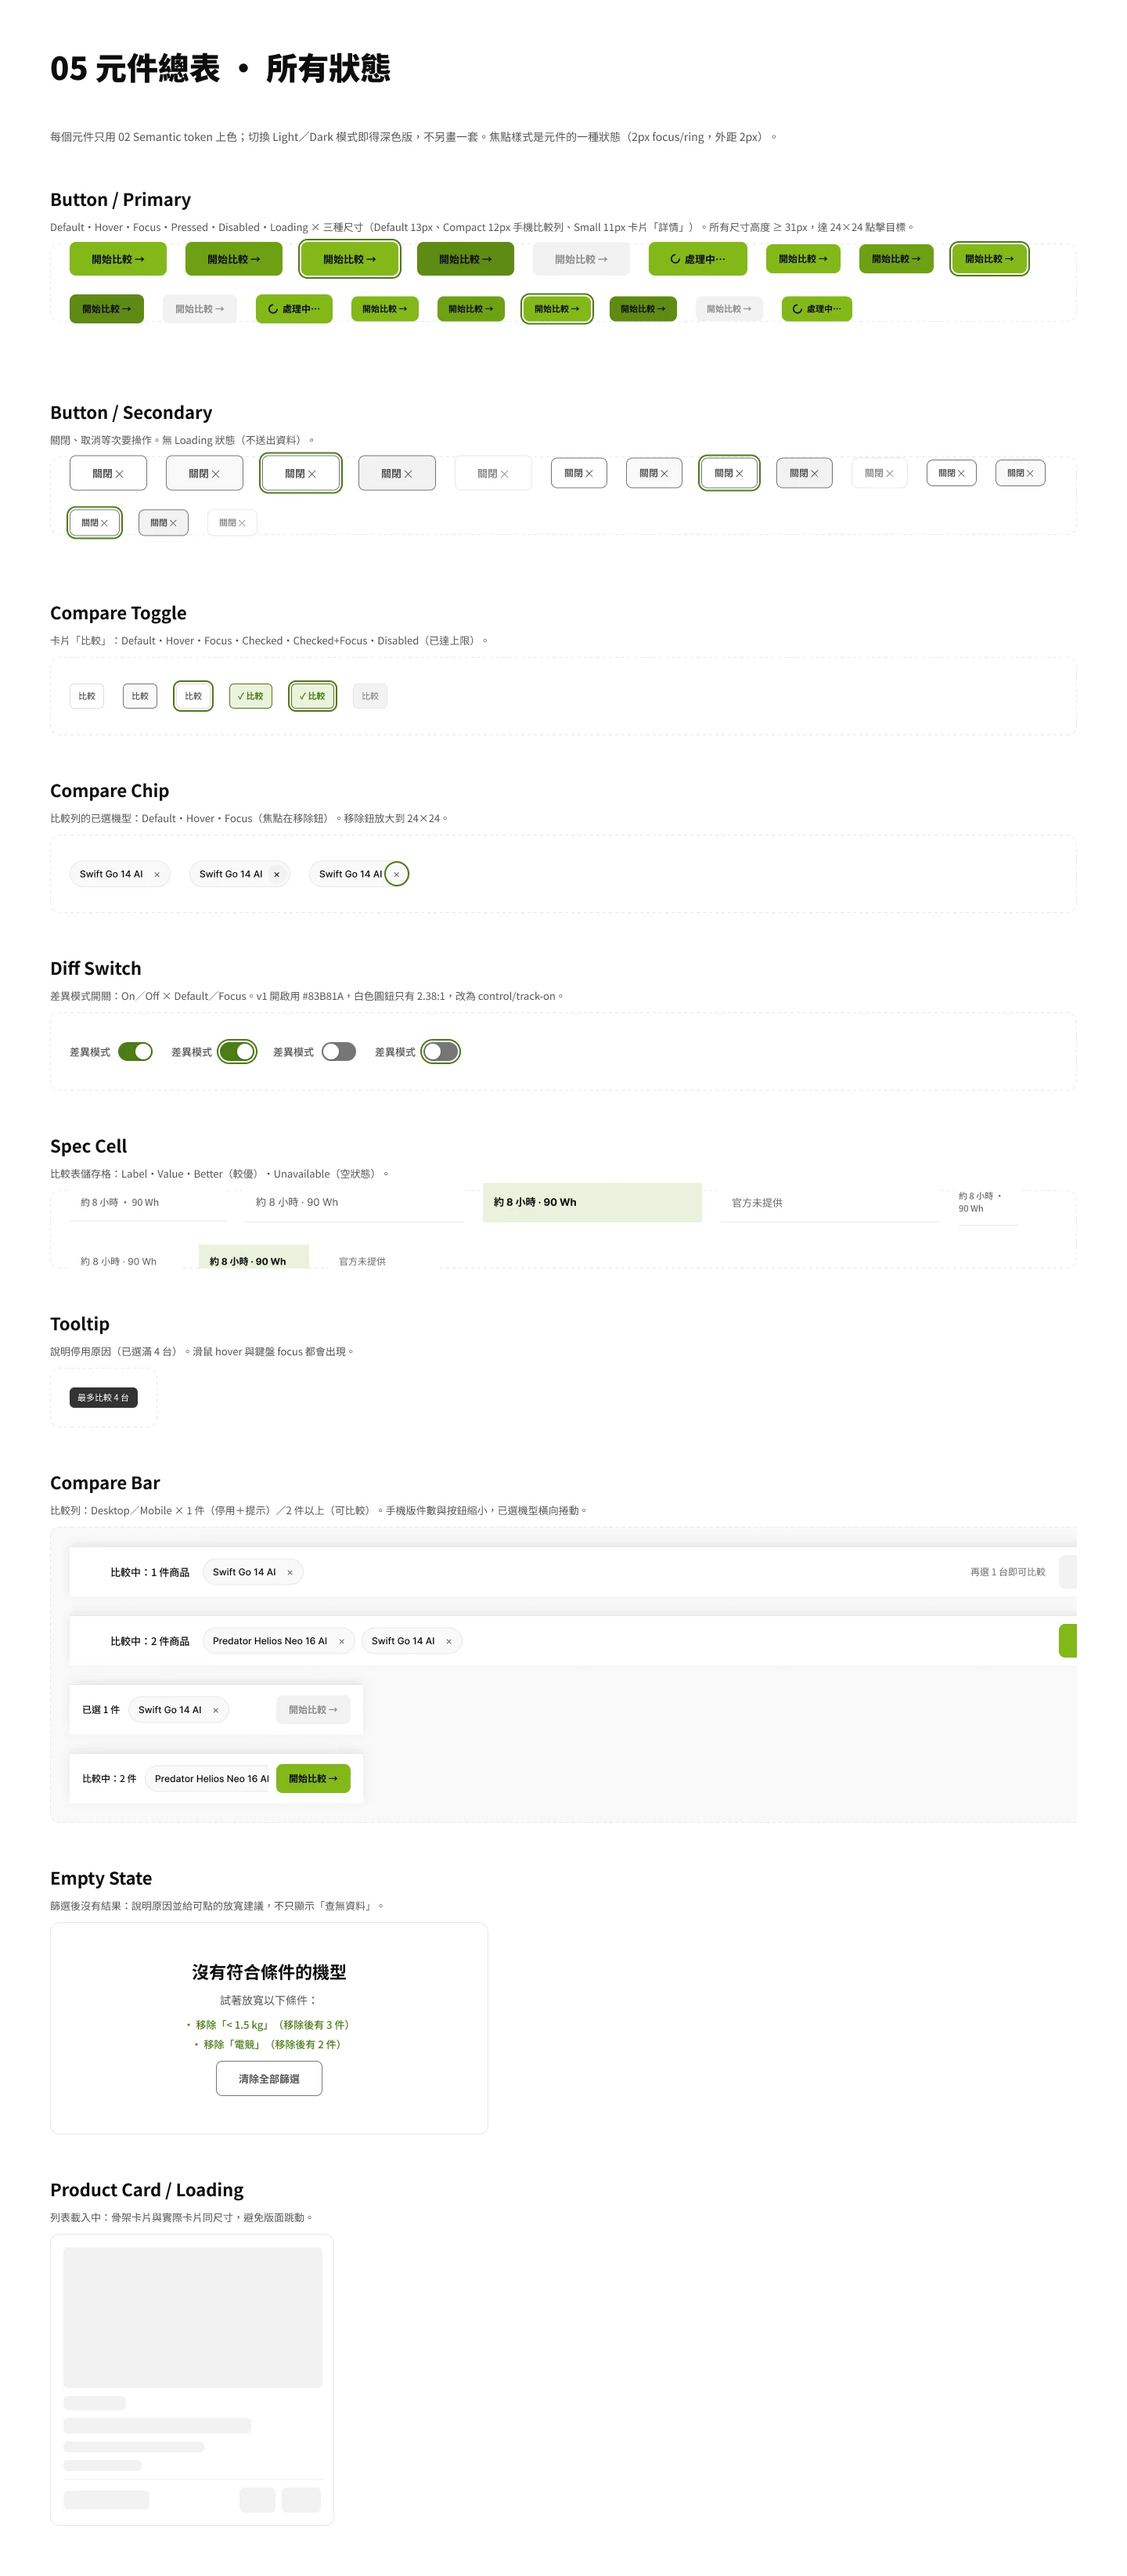
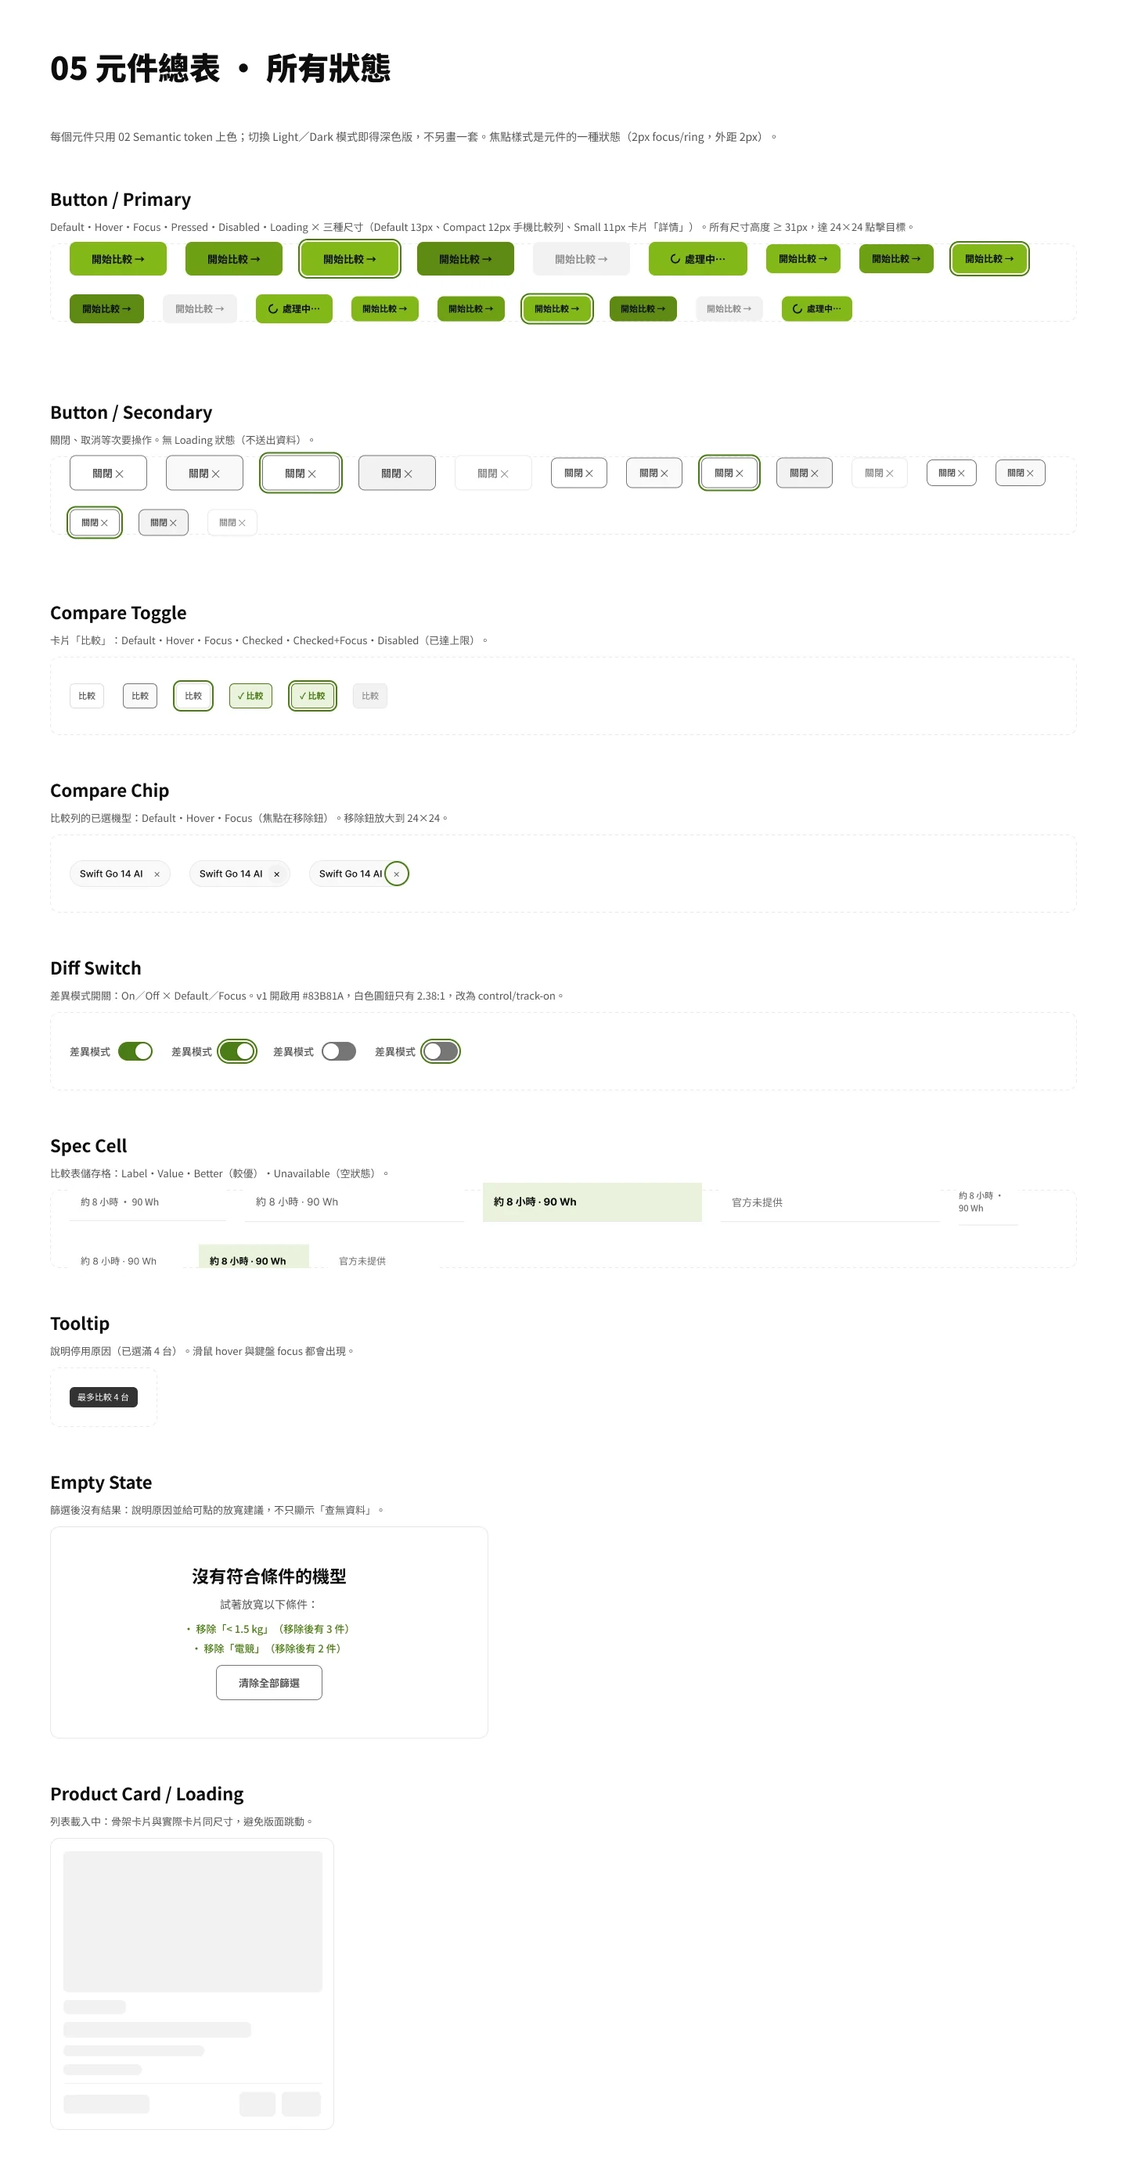
Acer 比較列改用 HTML Demo 的實際畫面
元件總表裡的 Compare Bar 被 Figma frame 裁掉：節點 409:103 是 1490px，
外層 frame 405:55 只有 1440px 且開了 clip content。實測單獨匯出內層的
409:54（本身 1440px）也只回傳 1303px——Figma 匯出一律套用上層裁切，
被切掉的像素不存在於任何匯出檔，縮放無法還原。

- 從 leortsai.github.io/acer-redesign-demo 的筆電列表實際操作，
  截下已選 1 件（按鈕停用＋「再選 1 台即可比較」）與 2 件（按鈕可按）
  兩種狀態，合成一張放在元件總表後面。
- 元件總表裁掉被切壞的 Compare Bar 區塊（frame 座標 y 1879-2384），
  高度 3290 → 2785。Tooltip 與 Empty State 之間的間距維持原本的 56px。
- 手機版比較列不重複放：05 後面的「手機版比較」已經有。

diff --git a/case-acer.html b/case-acer.html
@@ -7,7 +7,7 @@
   <meta name="description" content="Acer 官網概念重設計 — 資訊架構收斂、token-based 設計系統與比較功能互動原型。Fuyu Tsai UI/UX Case Study。">
   <link rel="preconnect" href="https://fonts.googleapis.com">
   <link href="https://fonts.googleapis.com/css2?family=Noto+Sans+TC:wght@400;500&display=swap" rel="stylesheet">
-  <link rel="stylesheet" href="css/style.css?v=20261113e">
+  <link rel="stylesheet" href="css/style.css?v=20261113f">
 </head>
 <body>
 
@@ -246,8 +246,11 @@
       <img loading="lazy" decoding="async" width="2320" height="1978" src="assets/images/Acer Redesign/figma/acer-states-light-dark.webp" alt="元件狀態總表：同一組元件在淺色與深色模式下的預設、hover、focus、按下、停用與載入狀態" class="case-img-full">
       <p class="case-img-caption">狀態總表 — 同一組元件，只切換變數模式</p>
 
-      <img loading="lazy" decoding="async" width="1440" height="3290" src="assets/images/Acer Redesign/figma/acer-components.webp" alt="元件總表：按鈕、比較勾選、比較列、差異模式開關、比較表儲存格與骨架卡片" class="case-img-full">
+      <img loading="lazy" decoding="async" width="1440" height="2785" src="assets/images/Acer Redesign/figma/acer-components.webp" alt="元件總表：按鈕、比較勾選、差異模式開關、比較表儲存格、Tooltip、無結果狀態與骨架卡片" class="case-img-full">
       <p class="case-img-caption">元件總表</p>
+
+      <img loading="lazy" decoding="async" width="2400" height="338" src="assets/images/Acer Redesign/figma/acer-compare-bar-states-desktop.webp" alt="桌機版比較列的兩種狀態：已選 1 件時按鈕停用並提示再選 1 台，已選 2 件時按鈕可按" class="case-img-full">
+      <p class="case-img-caption">比較列的狀態，截自可操作的 HTML Demo：已選 1 件時按鈕停用並提示「再選 1 台即可比較」，2 件以上才能開始比較</p>
 
       <img loading="lazy" decoding="async" width="1358" height="1115" src="assets/images/Acer Redesign/figma/acer-token-contrast-matrix.webp" alt="Semantic Token 對比驗證矩陣：20 組前景與背景配對在淺色與深色模式下的對比值" class="case-img-full">
       <p class="case-img-caption">Semantic Token 對比驗證矩陣 — 20 組配對、兩種模式共 40 項檢查</p>
@@ -394,6 +397,6 @@
 
 <script src="https://cdn.jsdelivr.net/npm/lenis@1.3.26/dist/lenis.min.js"></script>
 <script src="js/main.js"></script>
-<script src="js/lightbox.js?v=20261113e"></script>
+<script src="js/lightbox.js?v=20261113f"></script>
 </body>
 </html>

diff --git a/case-michelin.html b/case-michelin.html
@@ -7,7 +7,7 @@
   <meta name="description" content="Michelin Guide 概念重設計 — 餐廳搜尋、列表、詳細頁與三步驟訂位流程。Fuyu Tsai UI/UX Case Study。">
   <link rel="preconnect" href="https://fonts.googleapis.com">
   <link href="https://fonts.googleapis.com/css2?family=Noto+Sans+TC:wght@400;500&display=swap" rel="stylesheet">
-  <link rel="stylesheet" href="css/style.css?v=20261113e">
+  <link rel="stylesheet" href="css/style.css?v=20261113f">
 </head>
 <body>
 
@@ -308,6 +308,6 @@
 
 <script src="https://cdn.jsdelivr.net/npm/lenis@1.3.26/dist/lenis.min.js"></script>
 <script src="js/main.js"></script>
-<script src="js/lightbox.js?v=20261113e"></script>
+<script src="js/lightbox.js?v=20261113f"></script>
 </body>
 </html>

diff --git a/case-iii-awards.html b/case-iii-awards.html
@@ -7,7 +7,7 @@
   <meta name="description" content="III Awards Agency — 為國際獎項顧問服務建立獨立品牌與四頁響應式網站。Fuyu Tsai UI/UX Case Study。">
   <link rel="preconnect" href="https://fonts.googleapis.com">
   <link href="https://fonts.googleapis.com/css2?family=Noto+Sans+TC:wght@400;500&display=swap" rel="stylesheet">
-  <link rel="stylesheet" href="css/style.css?v=20261113e">
+  <link rel="stylesheet" href="css/style.css?v=20261113f">
 </head>
 <body>
 
@@ -317,6 +317,6 @@
 
 <script src="https://cdn.jsdelivr.net/npm/lenis@1.3.26/dist/lenis.min.js"></script>
 <script src="js/main.js"></script>
-<script src="js/lightbox.js?v=20261113e"></script>
+<script src="js/lightbox.js?v=20261113f"></script>
 </body>
 </html>

diff --git a/case-iii-design.html b/case-iii-design.html
@@ -7,7 +7,7 @@
   <meta name="description" content="III Design Studio — 品牌識別、視覺系統到官網的完整設計路徑。Fuyu Tsai UI/UX Case Study。">
   <link rel="preconnect" href="https://fonts.googleapis.com">
   <link href="https://fonts.googleapis.com/css2?family=Noto+Sans+TC:wght@400;500&display=swap" rel="stylesheet">
-  <link rel="stylesheet" href="css/style.css?v=20261113e">
+  <link rel="stylesheet" href="css/style.css?v=20261113f">
 </head>
 <body>
 
@@ -139,6 +139,6 @@
 
 <script src="https://cdn.jsdelivr.net/npm/lenis@1.3.26/dist/lenis.min.js"></script>
 <script src="js/main.js"></script>
-<script src="js/lightbox.js?v=20261113e"></script>
+<script src="js/lightbox.js?v=20261113f"></script>
 </body>
 </html>

diff --git a/index.html b/index.html
@@ -7,7 +7,7 @@
   <meta name="description" content="蔡馥伃 Fuyu Tsai — UI/UX Designer。六年品牌與視覺設計背景，專注網站介面、設計系統與響應式設計。">
   <link rel="preconnect" href="https://fonts.googleapis.com">
   <link href="https://fonts.googleapis.com/css2?family=Noto+Sans+TC:wght@400;500&display=swap" rel="stylesheet">
-  <link rel="stylesheet" href="css/style.css?v=20261113e">
+  <link rel="stylesheet" href="css/style.css?v=20261113f">
   <script type="importmap">
   { "imports": { "three": "https://cdn.jsdelivr.net/npm/three@0.180.0/build/three.module.js" } }
   </script>

diff --git a/about.html b/about.html
@@ -7,7 +7,7 @@
   <meta name="description" content="關於蔡馥伃 Fuyu Tsai — UI/UX Designer。六年品牌與視覺設計經驗，專注網站介面、設計系統與響應式設計。">
   <link rel="preconnect" href="https://fonts.googleapis.com">
   <link href="https://fonts.googleapis.com/css2?family=Noto+Sans+TC:wght@400;500&display=swap" rel="stylesheet">
-  <link rel="stylesheet" href="css/style.css?v=20261113e">
+  <link rel="stylesheet" href="css/style.css?v=20261113f">
 </head>
 <body>
 
